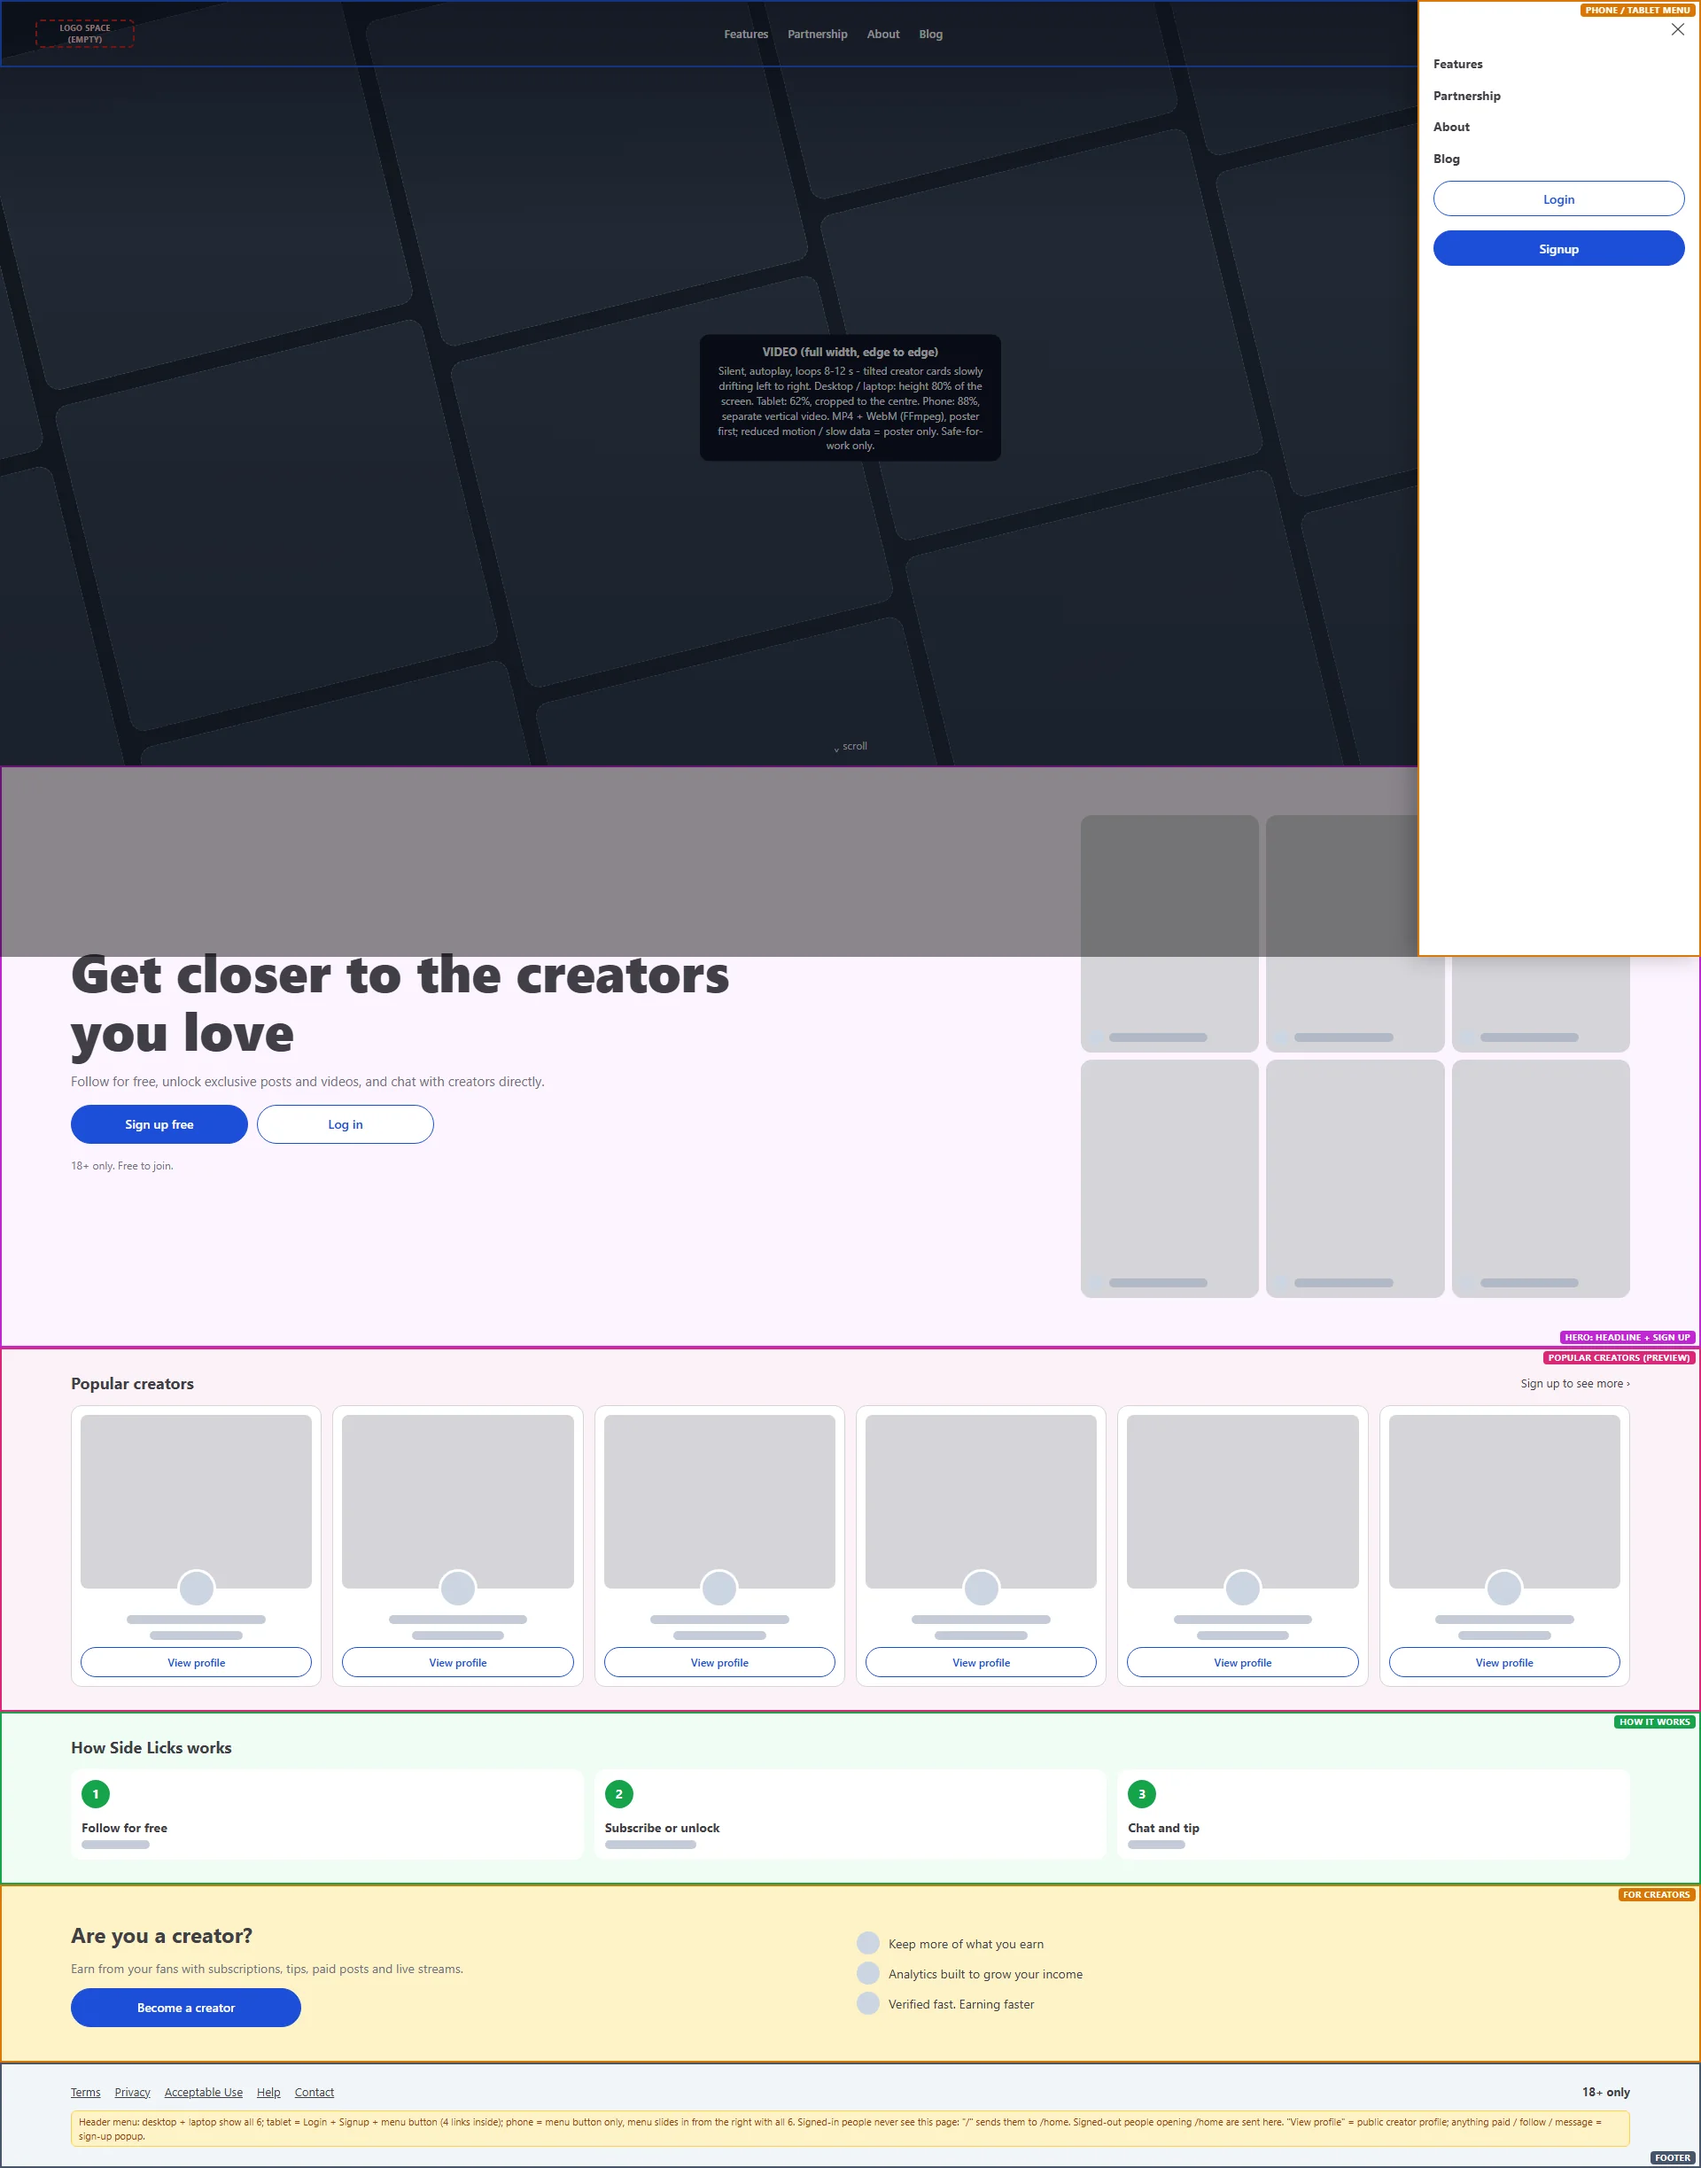
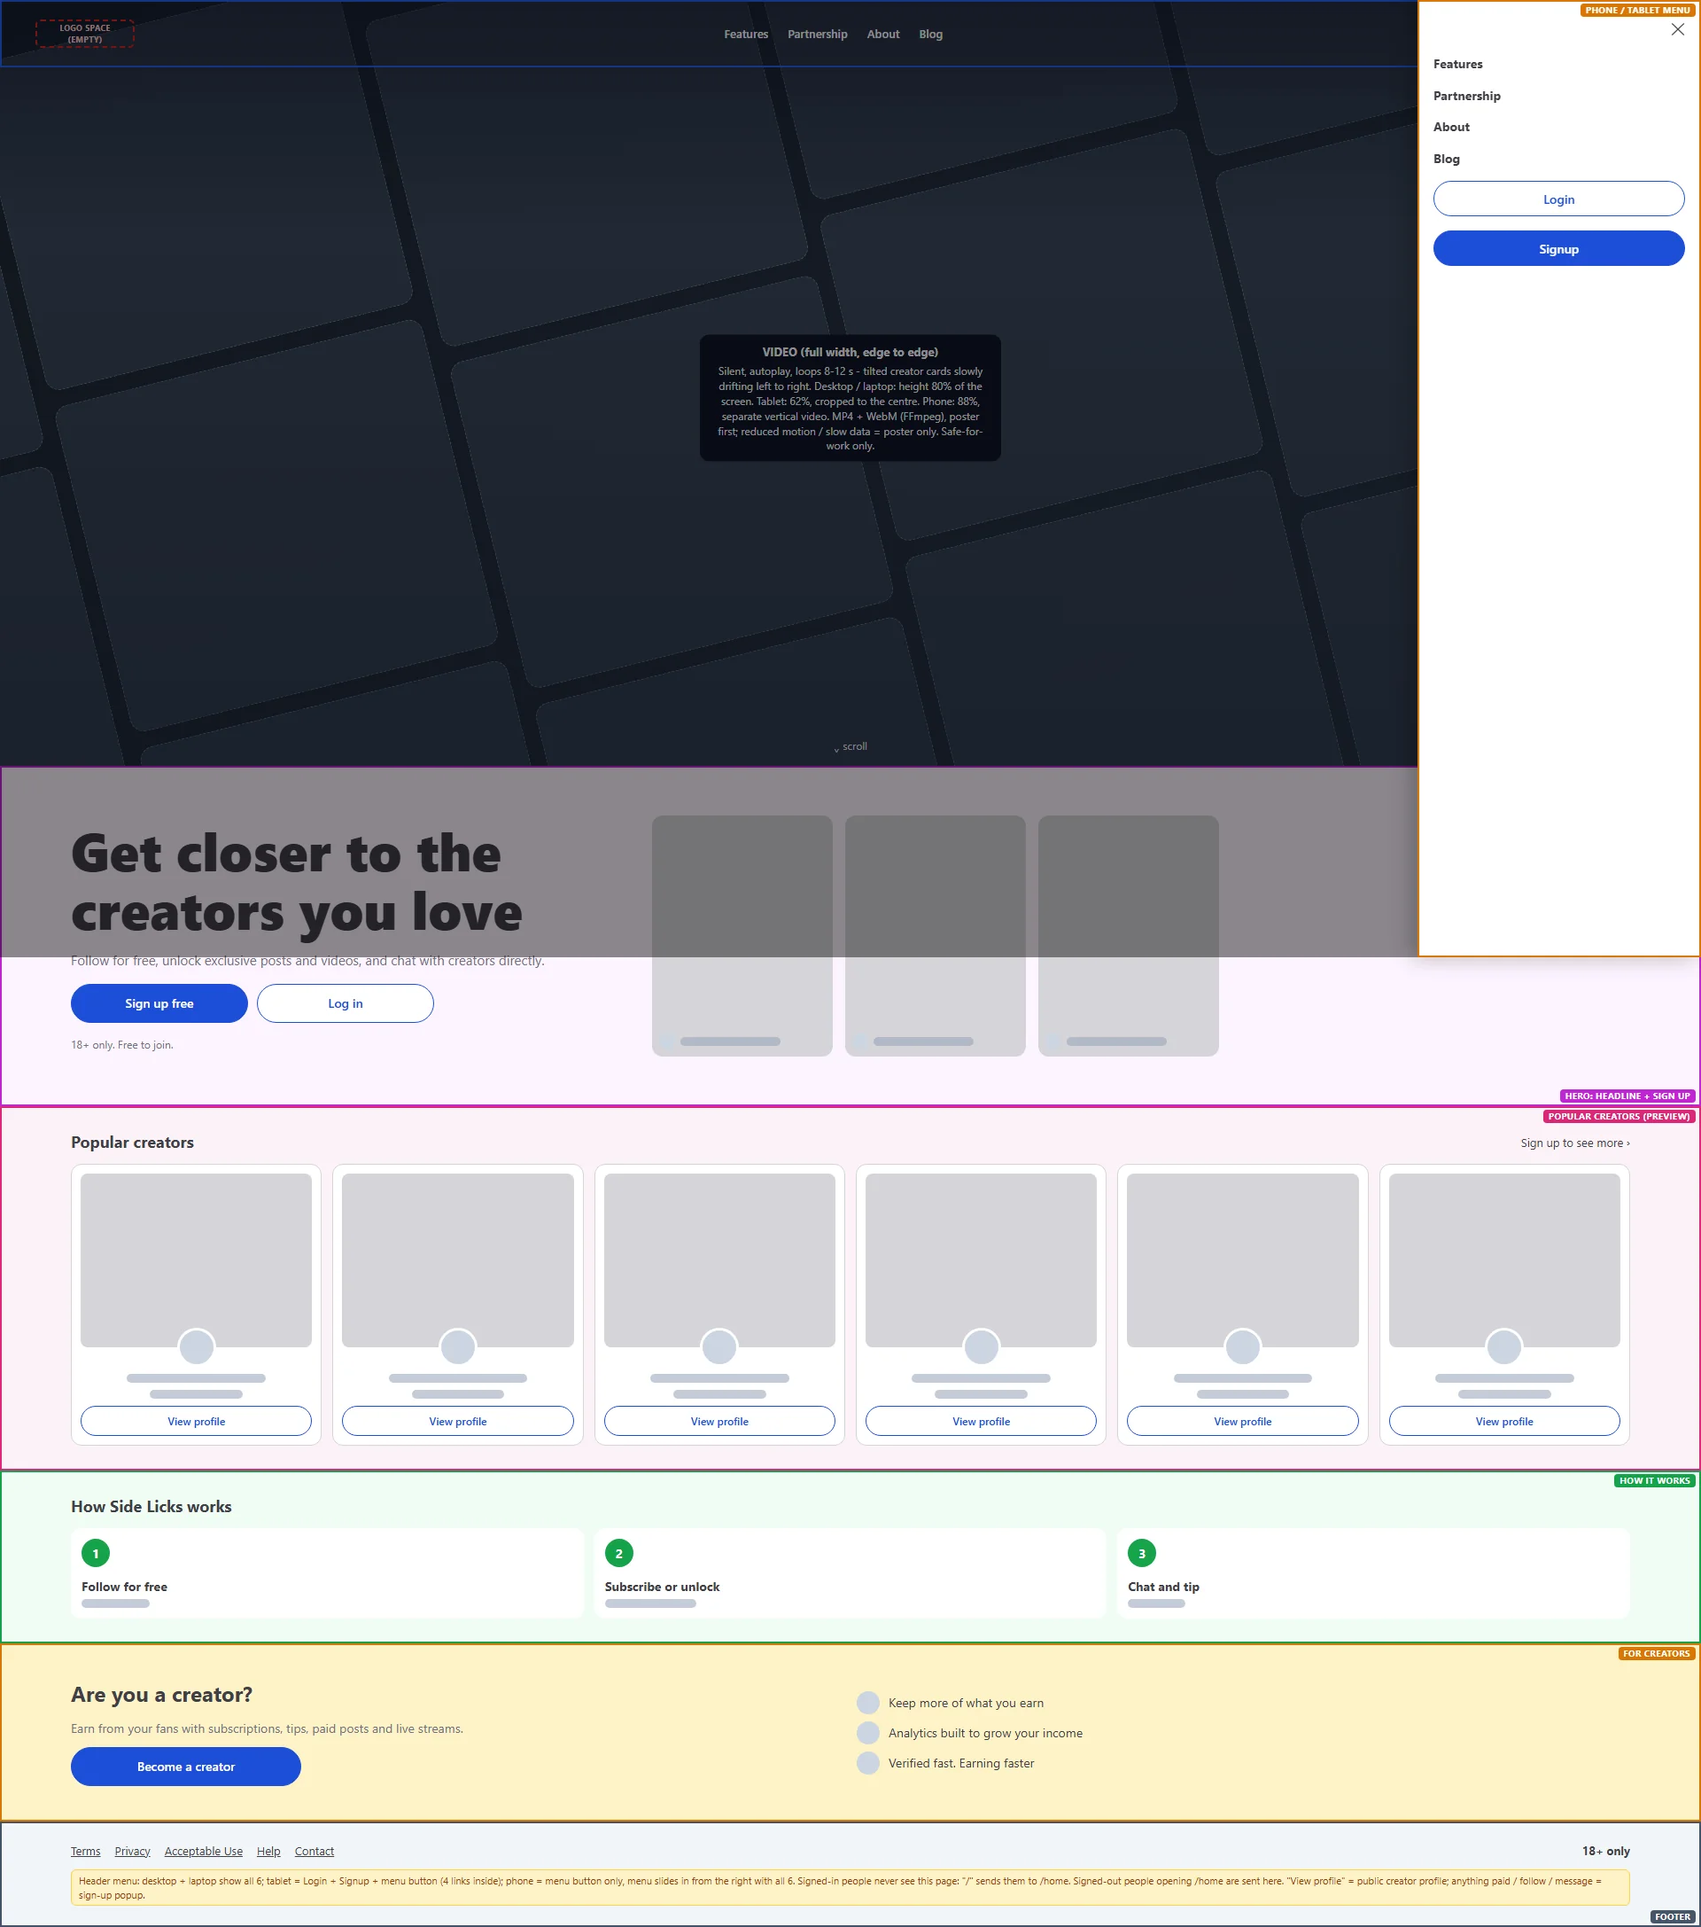
Main page wireframe: desktop hero = 3 boxes next to the text (owner)

diff --git a/wireframes/landing.html b/wireframes/landing.html
@@ -111,13 +111,13 @@
   }
   @media (min-width: 1024px) {
     .band { padding-left: 48px !important; padding-right: 48px !important; }
-    .hero { grid-template-columns: 1fr 1fr; text-align: left; align-items: center; gap: 40px; padding: 56px 40px; }
+    /* laptop + desktop (owner 2026-10-28): ONE row of 3 pictures, right next to the text (no big gap between them) */
+    .hero { grid-template-columns: minmax(0, 600px) minmax(0, 640px); justify-content: start; text-align: left; align-items: center; gap: 56px; padding: 56px 40px; }
     .hero .acts { justify-content: start; }
     .hero h1 { font-size: 52px; }
     .collage { grid-template-columns: repeat(3, 1fr); }
-    .collage .tile:nth-child(n+4) { display: grid; }
-    .collage .tile:nth-child(n+7) { display: none; }
-    .collage { width: 100%; max-width: 620px; justify-self: end; }
+    .collage .tile:nth-child(n+4) { display: none; }
+    .collage { width: 100%; justify-self: start; gap: 14px; }
     .cards { grid-auto-columns: calc((100% - 48px) / 5); }
     .creator { grid-template-columns: 1fr 1fr; text-align: left; align-items: center; padding: 40px; }
     .creator .points { grid-template-columns: 1fr; }

diff --git a/design.md b/design.md
@@ -54,7 +54,7 @@ Font: Geist (next/font, self-hosted at build). Change brand colours in one place
 
 **After sign-up: Become a creator** (F117, approved + built 2026-10-28 at /onboarding) - shown to every new user right after sign-up, before Home (owner). Full screen, soft glow at the top, empty logo space centred. 6 steps from the Excel (S104-S109): coins "Top creators earn over $X per month", globe "One platform. Built to make creators money", coins "Keep X% for N days after you verify. Then Y%", bar chart "Analytics built to grow your income", pie chart "Refer a creator. Earn X% of their income", tick "Verified fast. Earning faster". Layout v2 (owner 2026-10-28: v1 side-by-side "looked edgy and bleeding out"): ONE centred column on every size (max 420 / 480 / 520 / 560 px phone / tablet / laptop / desktop) - logo space, 3D picture, headline UNDER the picture, arrows at the column edges with dots between (active dot = short bar), terms line, buttons. Arrows (back hidden on step 1, next hidden on step 6), swipe, auto-move until touched; terms line; "Start earning" (creator application F35 - for now a toast "comes in a later step" -> Home) and "Close" (-> Home). Shown once: after the Check your email popup (X or Send again) and on the first log-in if never seen; "Become a Creator" in the menu opens it any time. Numbers only show once the admin sets them; until then the step uses the same idea without a number (e.g. "Top creators earn real money every month"). Pictures = simple line icons on a soft tile until the 3D artwork (after F5).
 
-**Main page `/`** (F121, v3 2026-10-28, waiting - every section under the video is FULL WIDTH like the video, edge-to-edge bands, no empty white space left / right; only the inside padding grows: 16 / 32 / 48 / 80 px phone / tablet / laptop / desktop) - the page people see at www.sidelicks.com before they log in; /home is ONLY for signed-in people (owner). HEADER = full-width video, edge to edge (owner v2): silent, autoplay, loops 8-12 s, tilted creator cards slowly drifting left to right; height 80% of the screen on desktop + laptop, 62% tablet (cropped to the centre), 88% phone (separate vertical video); MP4 + WebM via FFmpeg, poster first, reduced motion / slow data = poster only, safe-for-work only; rounded bottom corners, "scroll" hint. Menu on top of the video: Logo space | Features | Partnership | About | Blog | Login | Signup - desktop + laptop show all; tablet = Login + Signup + menu button (4 links inside); phone = menu button only, menu slides in from the right with all 6 (Signup = main button). Under the video, hero: "Get closer to the creators you love", short line, Sign up free + Log in, "18+ only. Free to join."; creator picture collage on the right (laptop + desktop) or under the text (tablet + phone). Popular creators row (preview cards: cover, avatar, name, View profile; sideways scroll). How it works: 1 Follow for free, 2 Subscribe or unlock, 3 Chat and tip. For creators band: "Are you a creator?" + Become a creator + 3 points (no numbers). Footer: Terms, Privacy, Acceptable Use, Help, Contact, 18+ only. Signed in at "/" -> /home; signed out at /home -> "/". Follow / pay / message while signed out -> sign-up popup.
+**Main page `/`** (F121, v3 2026-10-28, waiting - every section under the video is FULL WIDTH like the video, edge-to-edge bands, no empty white space left / right; only the inside padding grows: 16 / 32 / 48 / 80 px phone / tablet / laptop / desktop) - the page people see at www.sidelicks.com before they log in; /home is ONLY for signed-in people (owner). HEADER = full-width video, edge to edge (owner v2): silent, autoplay, loops 8-12 s, tilted creator cards slowly drifting left to right; height 80% of the screen on desktop + laptop, 62% tablet (cropped to the centre), 88% phone (separate vertical video); MP4 + WebM via FFmpeg, poster first, reduced motion / slow data = poster only, safe-for-work only; rounded bottom corners, "scroll" hint. Menu on top of the video: Logo space | Features | Partnership | About | Blog | Login | Signup - desktop + laptop show all; tablet = Login + Signup + menu button (4 links inside); phone = menu button only, menu slides in from the right with all 6 (Signup = main button). Under the video, hero: "Get closer to the creators you love", short line, Sign up free + Log in, "18+ only. Free to join."; creator pictures on the right on laptop + desktop = ONE row of 3 boxes placed right next to the text (owner 2026-10-28) or under the text (tablet + phone). Popular creators row (preview cards: cover, avatar, name, View profile; sideways scroll). How it works: 1 Follow for free, 2 Subscribe or unlock, 3 Chat and tip. For creators band: "Are you a creator?" + Become a creator + 3 points (no numbers). Footer: Terms, Privacy, Acceptable Use, Help, Contact, 18+ only. Signed in at "/" -> /home; signed out at /home -> "/". Follow / pay / message while signed out -> sign-up popup.
 
 **Live now row** (owner 2026-10-28): exactly 5 rings in view on every size (each 1/5 of the row, ring 50 / 68 / 80 / 92 px phone / tablet / laptop / desktop), first name + "N watching" (phone: eye icon + N), arrows / swipe move a full 5, left arrow grey at the start, right arrow grey at the end.
 

diff --git a/CLAUDE.md b/CLAUDE.md
@@ -33,7 +33,7 @@ Details: `code.md` (how to run, structure, tests), `design.md` (screens, sizes, 
 
 ## Status (update every task)
 
-- 2026-10-27 Step 1 (B20 + F6 wireframes): project set up, start page + `/api/health` working, wireframes for register / verify email / home made at 4 sizes - **wireframes APPROVED by owner 2026-10-28** (register, verify email, home; with continuous scroll on Discover). F5 (logo) waits for owner. Git remote `origin` = GitHub repo above; Excel task list now v80. First approval message was withdrawn by the owner (no pictures had been shown); colour-coded pictures sent 2026-10-27. Home redesigned (layout v2: live rings, post grid, suggestions inside the feed; then v3: owner wants the menu ALWAYS on the left on every device, no bottom bar). Discover (2026-10-28) = one-line video row -> "Creators you may like" row -> new video row with different creators -> ... (owner). Feed algorithm changed by owner: Discover tab opens first on every login (videos, tap name = profile), Subscribed tab next to it (only followed / subscribed creators); first-login screen replaced by this. Branded mockups wait for the logo (F5).
+- 2026-10-27 Step 1 (B20 + F6 wireframes): project set up, start page + `/api/health` working, wireframes for register / verify email / home made at 4 sizes - **wireframes APPROVED by owner 2026-10-28** (register, verify email, home; with continuous scroll on Discover). F5 (logo) waits for owner. Git remote `origin` = GitHub repo above; Excel task list now v81. First approval message was withdrawn by the owner (no pictures had been shown); colour-coded pictures sent 2026-10-27. Home redesigned (layout v2: live rings, post grid, suggestions inside the feed; then v3: owner wants the menu ALWAYS on the left on every device, no bottom bar). Discover (2026-10-28) = one-line video row -> "Creators you may like" row -> new video row with different creators -> ... (owner). Feed algorithm changed by owner: Discover tab opens first on every login (videos, tap name = profile), Subscribed tab next to it (only followed / subscribed creators); first-login screen replaced by this. Branded mockups wait for the logo (F5).
 - 2026-10-28 **Step 1A DONE: home page built** at http://localhost:3000/home (sample data; real feed API = B110, accounts = B25). Tested 3 runs x 4 sizes. Next: review with the owner which steps come next (owner asked for this), then build register / verify email.
 - 2026-10-28 **Step 1B (owner: register + login before "check your email")**: register BUILT (real page + API + database + Check your email popup + toasts). Login wireframe **approved 2026-10-28** and login BUILT (page + `POST /api/auth/login` + "Send it again"); unverified emails can not log in until verified. Sign up button added under Log in (owner); login wireframe approved again with it. After sign-up "Become a creator" steps wireframe (F117, 6 steps from the Excel) made, redone as one centred column, **approved and BUILT** at /onboarding (owner 2026-10-28). Excel v77. Emails only go to the `email_outbox` table until an email service is chosen (E1).
 

diff --git a/code.md b/code.md
@@ -151,3 +151,4 @@ Goal: Discover never ends, rows never look cut off, and the fan is not worn out 
 - 2026-10-28 Wireframe: wireframes/landing.html (F121 main page "/" for signed-out people) + zones z-hero / z-how / z-foot. Owner now gets ONE picture set per wireframe: wireframes/sheets/<name>-3sizes.webp (desktop, tablet, phone, made with FFmpeg from the shots).
 - 2026-10-28 landing.html v2: header video zone (z-video) with the menu on top + phone/tablet menu state ("menu").
 - 2026-10-28 landing.html v3: sections are full-width bands (.band) like the video header.
+- 2026-10-28 landing.html: laptop + desktop hero = 3 picture boxes in one row next to the text (owner).
